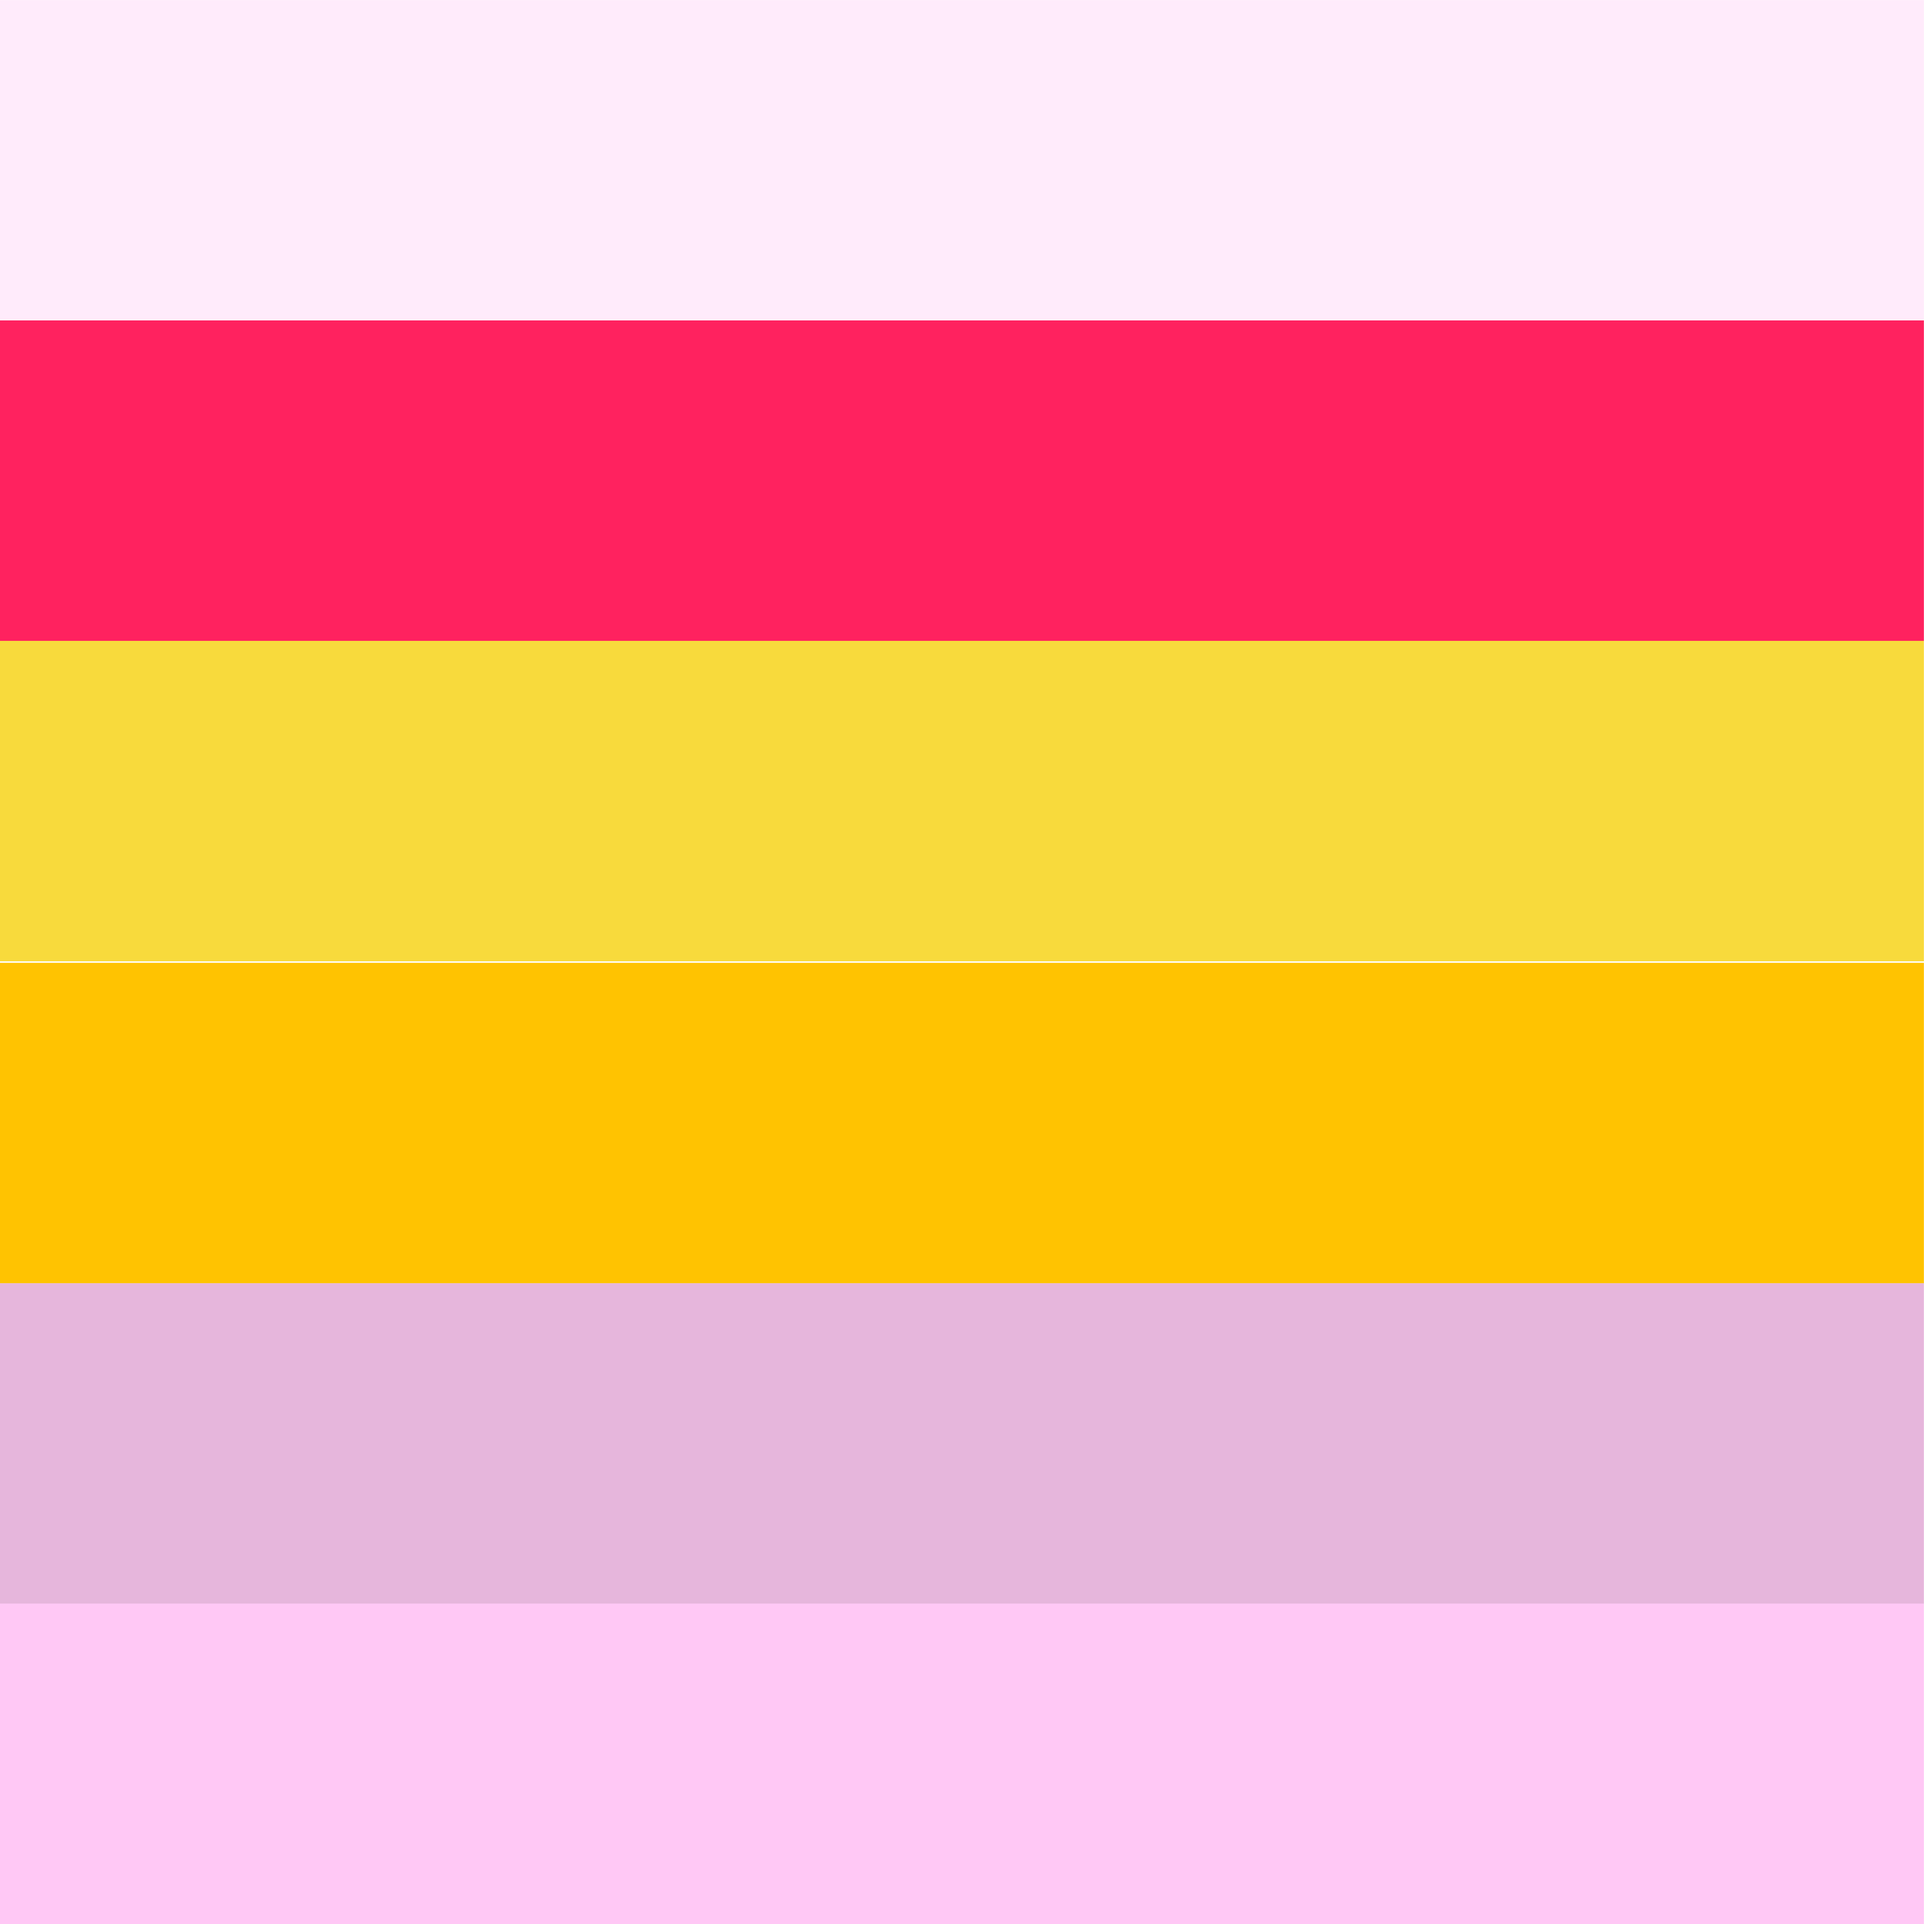
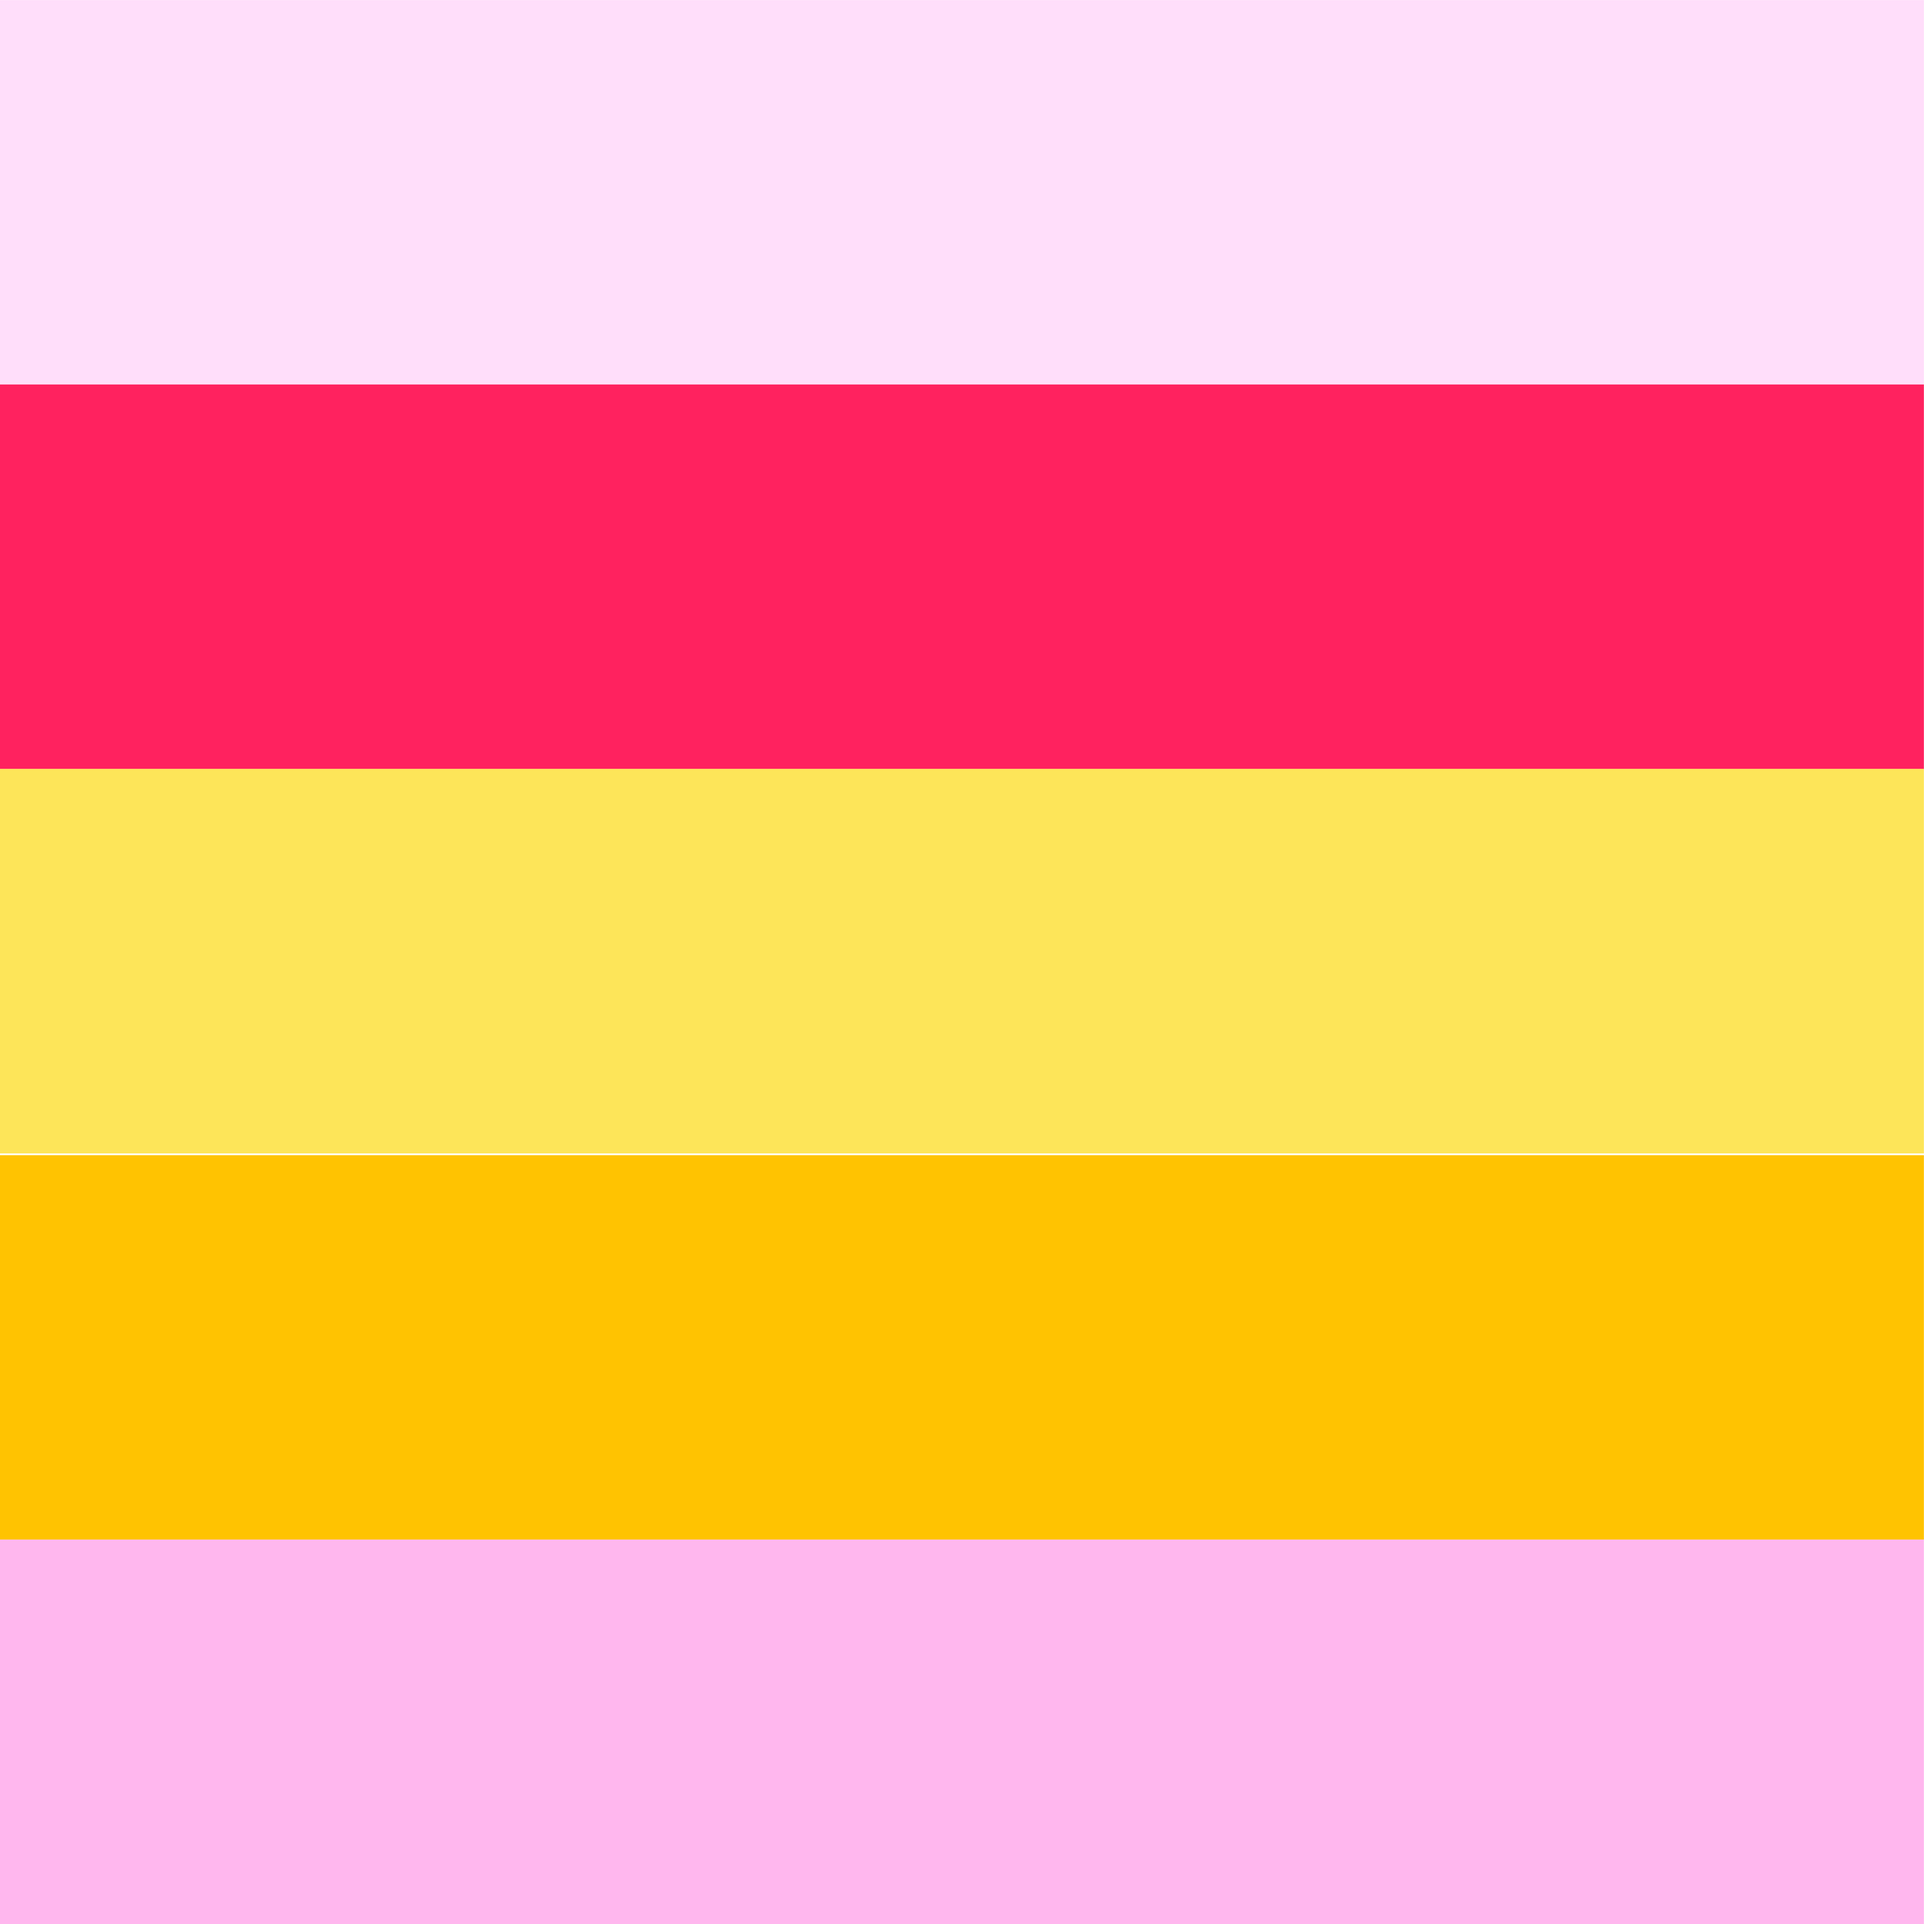
updated color pallate. minimized/optimized/excluded pink-2/updated files

diff --git a/color palatte/palatte.css b/color palatte/palatte.css
@@ -4,6 +4,5 @@
 --bright-reddish-pink: #f34954;
 --mangoish-yellow: #ffdf75;
 --bright-yellowish-orange: #ffc400;
---pink-2: #e2bbc2;
 --pink-3: #fdc4ce;
 }
